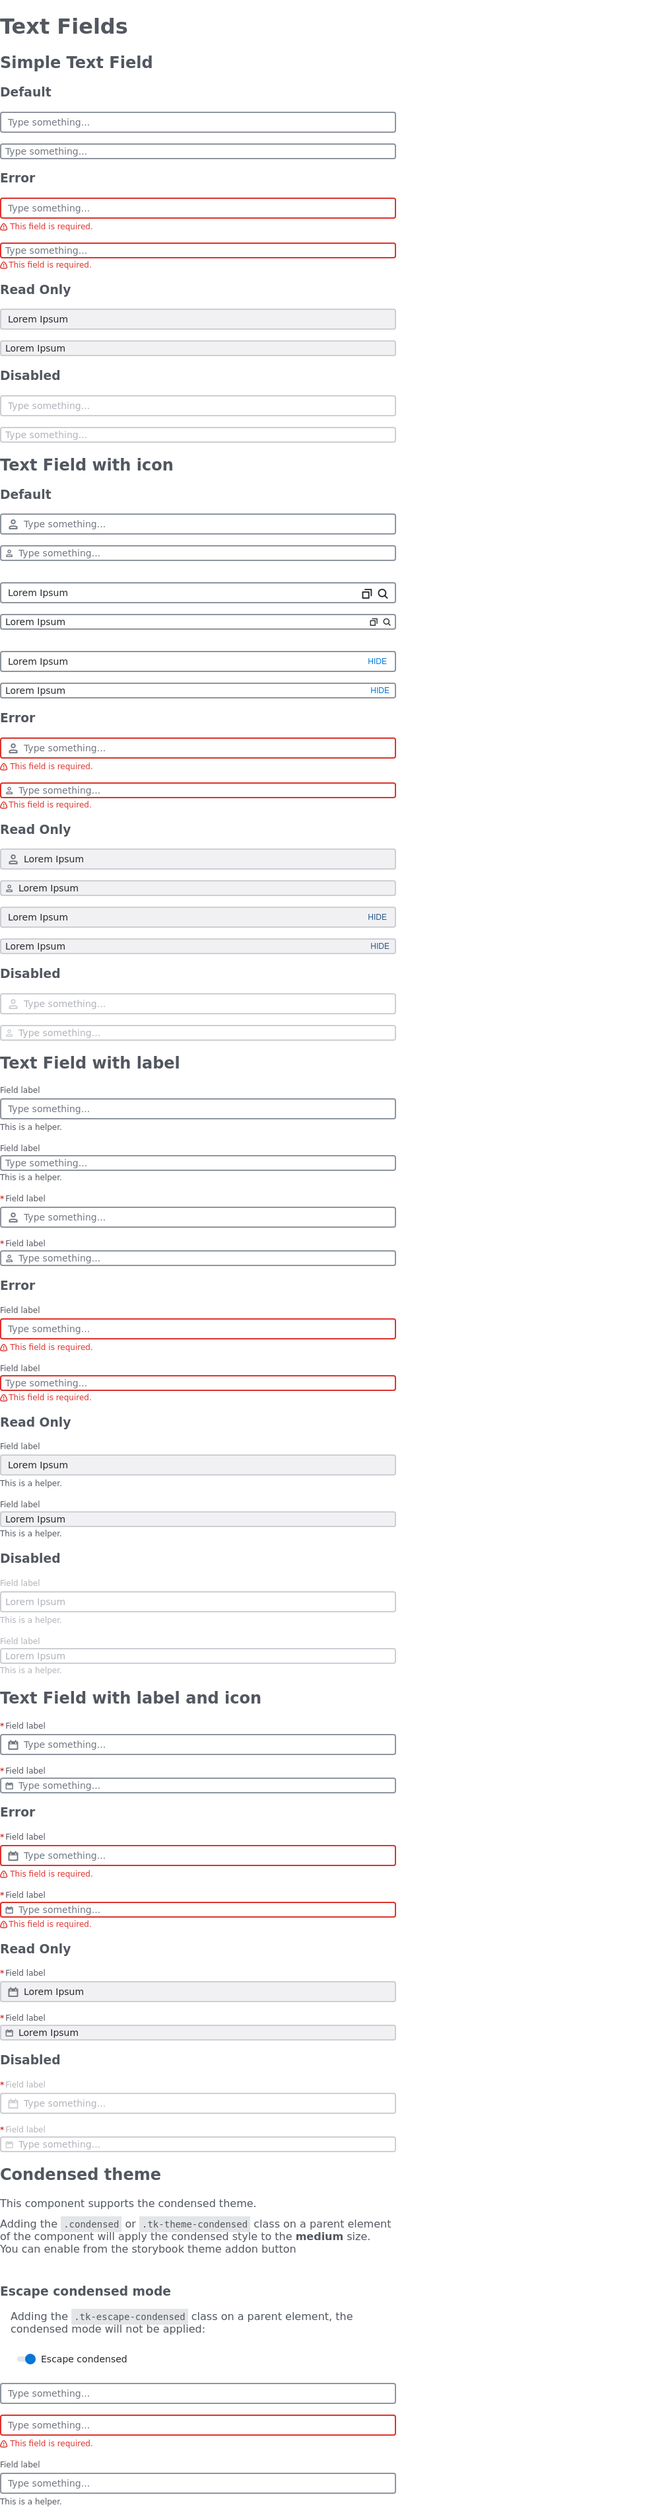
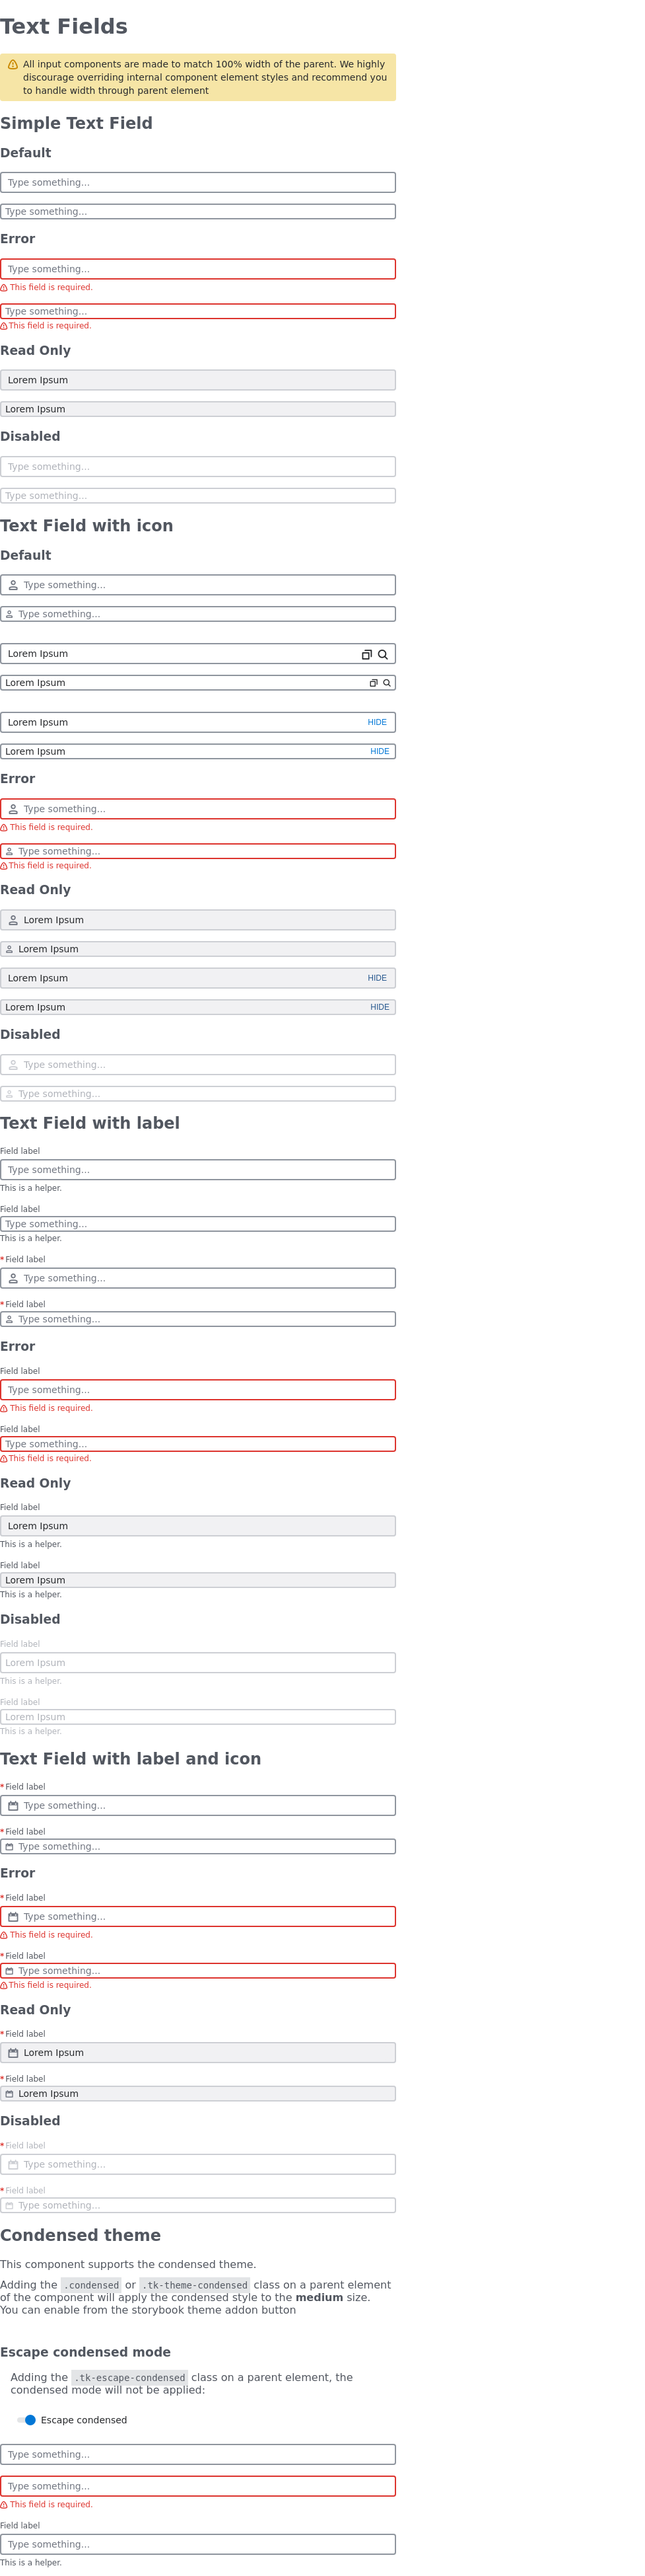
APP-4817 + APP-4005 - Improve doc and add support of ESM (#436)
* APP-4817 - Improve doc

* APP-4005 - Using es6 modules

Changed region(s): [[0.0, 0.0, 0.6141, 1.0], [0.5834, 0.8371, 0.6141, 0.8681]]

diff --git a/packages/styles/stories/fields.stories.js b/packages/styles/stories/fields.stories.js
@@ -6,6 +6,11 @@ export const TextField = () => {
   return `
   <div style="max-width: 600px">
   <h1>Text Fields</h1>
+  <div class="tk-banner tk-banner--warning tk-banner--medium">
+    <div class="tk-banner__variant-icon"></div>
+    <div class="tk-banner__content">All input components are made to match 100% width of the parent. 
+    We highly discourage overriding internal component element styles and recommend you to handle width through parent element</div>
+  </div>
   <h2>Simple Text Field</h2>
   <h3>Default</h3>
   <input type="text" class="tk-input tk-input--medium" placeholder="Type something..." />

diff --git a/packages/styles/stories/banner.stories.js b/packages/styles/stories/banner.stories.js
@@ -1,9 +1,9 @@
 export default {
-    title: 'Components/Banner',
+  title: 'Components/Banner',
 };
 
 export const Banner = () => {
-    return `
+  return `
     <div class="tk-text-color" style="width: 50%;">
         <h1>Banner</h1>
 

diff --git a/.eslintrc.js b/.eslintrc.js
@@ -25,6 +25,6 @@ module.exports = {
     '@typescript-eslint/no-explicit-any': 'off',
     indent: ['error', 2],
     '@typescript-eslint/no-var-requires': 0,
-    'no-control-regex': 0
+    'no-control-regex': 0,
   },
 };

diff --git a/packages/styles/docs/contributing.md b/packages/styles/docs/contributing.md
@@ -32,6 +32,7 @@ In order to keep consistency between components the following aspects are to be 
 To add **new icons** on UIToolkit:
 
 1. Add the <em>\*.svg</em> source file to:
+
 ```
 src/
 |
@@ -41,14 +42,15 @@ src/
 
 - The name of the icon should be in kebab-case.
 
-- If your SVG contains an __evenodd__ filling rule it can't be added to the project as it won't render properly under windows. SVGs added should not contain this rule.
+- If your SVG contains an **evenodd** filling rule it can't be added to the project as it won't render properly under windows. SVGs added should not contain this rule, a linter will help you avoiding that.
 
 - **Aliases:** To use several names for the same icon. You can define aliases in the file ['src/icons/tk-icons.aliases.json'](./src/icons/tk-icons.aliases.json).
 
->```
->"another-name":"activity"
->```
->"tk-icon-another-name" and "tk-icon-activity" will render the same icon.
+> ```
+> "another-name":"activity"
+> ```
+>
+> "tk-icon-another-name" and "tk-icon-activity" will render the same icon.
 
 ## Documentation
 

diff --git a/packages/styles/docs/getting-started.md b/packages/styles/docs/getting-started.md
@@ -68,14 +68,14 @@ For development purposes, if you want to test the latest features you can use th
 
 The UIToolkit Styles library bases all the Unit mesurements on the `rem` unit.
 
-It is fixed to a base of `16px`. If you need to update it on your project you can change `$UITOOLKIT_REM_BASE` variable.
+It is fixed to a base of `16px` which is browser default. If you need to update it on your project you can use the sass version of the lib and redefine `$UITOOLKIT_REM_BASE` variable.
 
 path: `src/utils/functions/_index.scss`
 
-```css
+```scss
 $UITOOLKIT_REM_BASE: 14;
 ```
 
 ## 🧪 Sandbox
 
-Try UI-Toolkit-Styles in [CodeSandbox](https://codesandbox.io/s/ui-toolkit-styles-sandbox-ty6t6?file=/index.html)
+Try UIToolkit-Styles in [CodeSandbox](https://codesandbox.io/s/ui-toolkit-styles-sandbox-ty6t6?file=/index.html)
